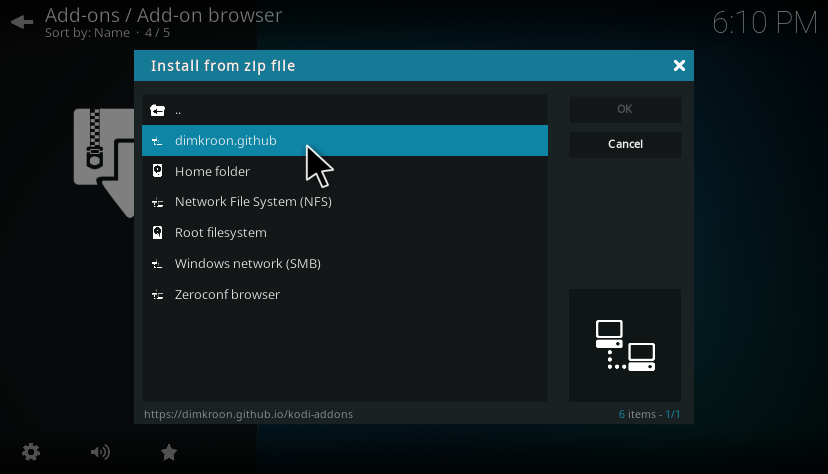
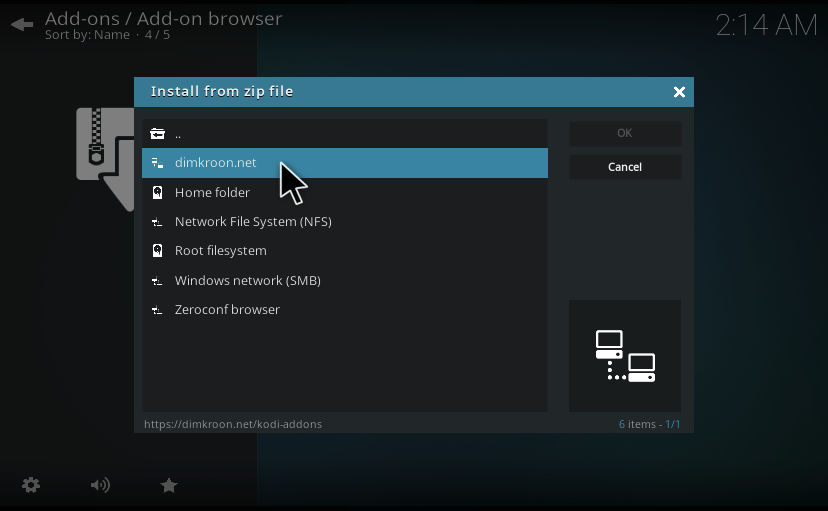
add dutch images and correct web url in images

diff --git a/nl/guides/howto-add-file-source.md b/nl/guides/howto-add-file-source.md
@@ -8,34 +8,38 @@ toevoegen als bestandslocatie in Kodi, zodat je de addons kunt installeren
 zonder ze eerst te hoeven downloaden.
 
 &nbsp;
-![img select settings](/assets/images/kodi-home-select-settings.png)
+![img select settings](/assets/images/nl/kodi-home-select-settings.png)
 
 Ga naar het Thuis scherm in Kodi en klik op Instellingen
 
 &nbsp;
-![img select filemanager](/assets/images/kodi-settings-select-filemanager.png)
+![img select filemanager](/assets/images/nl/kodi-settings-select-filemanager.
+png)
 In Instellingen, selecteer Bestandsbeheer
 
 &nbsp;
-![img select add source](/assets/images/kodi-filemanager-select-add-source.png)
+![img select add source](/assets/images/nl/kodi-filemanager-select-add-source.
+png)
 In Bestandsbeheer select 'Locatie toevoegen'. Gebruik je aan toetsenbord of 
 afstandsbediening, druk dan op Enter of OK. Als je een muis gebruikt dan moet 
 je dubbel klikken.
 
 &nbsp;
-![img enter source](/assets/images/kodi-dlg-add-file-source-enter-source.png)
+![img enter source](/assets/images/nl/kodi-dlg-add-file-source-enter-source.png)
 Je zou op 'Bladeren' kunnen klikken om de locatie op te zoeken, maar voor ons 
 is het veel makkelijker om direct de url in te voeren.
 Dus klik op het invoer veld waar nu '\<Geen>' staat.
 
 &nbsp;
-![img enter source location](/assets/images/kodi-enter-file-source-location.png)
+![img enter source location](/assets/images/nl/kodi-enter-file-source-location.
+png)
 Er wordt een on-screen toetsenbord getoond waar je het web adres kan invoeren.
 Voer in: '{{ site.url }}/kodi-addons'
 En klik op 'OK'
 
 &nbsp;
-![img select source name](/assets/images/kodi-dlg-add-file-src-select-name.png)
+![img select source name](/assets/images/nl/kodi-dlg-add-file-src-select-name.
+png)
 Je ziet nu het web adres in het invoerveld voor locaties.
 
 In het invoerveld beneden kan je de web locatie aan naam geven. Dit is de 
@@ -45,11 +49,11 @@ nemen.
 
 Kodi heeft de locatie al 'kodi-addons' genoemd, maar dat zegt weinig over 
 de herkomst. We kunnen het beter een nieuwe naam geven. Klik op het invoerveld 
-om het on-screen toetsenbord weer te geven en voer de naam 'dimkroon.github' 
+om het on-screen toetsenbord weer te geven en voer de naam 'dimkroon.net' 
 in. 
 
 &nbsp;
-![img dlg ok](/assets/images/kodi-dlg-add-file-src-select-ok.png)
+![img dlg ok](/assets/images/nl/kodi-dlg-add-file-src-select-ok.png)
 Het dialoogvenster moet er nu zo uit zien. Klik 'OK' om te bevestigen en de 
 locatie toe te voegen. Als alles goed gaat dan gaat Kodi nu terug naar 
 Bestandsbeheer. 
@@ -65,7 +69,7 @@ normale computer hetzelfde web adres ({{ site.url }}/kodi-addons) in een
 webbrowser in te voeren, gewoon om te zien of de website werkt.
 
 &nbsp;
-![img file mngr new src](/assets/images/kodi-filemanager-with-new-source.png)
+![img file mngr new src](/assets/images/nl/kodi-filemanager-with-new-source.png)
 De nieuwe locatie is nu zichtbaar in Bestandsbeheer.
 
 Je kan nogmaals controleren of het werkt door de locatie te selecteren 

diff --git a/nl/guides/install-from-zip.md b/nl/guides/install-from-zip.md
@@ -28,27 +28,28 @@ website zijn er grofweg twee methodes.
   [url als bestandslocatie toevoegen](/nl/guides/howto-add-file-source.html).
 
 &nbsp;
-![img select settings](/assets/images/kodi-home-select-settings.png)
+![img select settings](/assets/images/nl/kodi-home-select-settings.png)
 Begin de installatie door in het thuis scherm op instellingen te klikken.
 
 &nbsp;
-![img select settings](/assets/images/kodi-settings-select-addon.png)
+![img select settings](/assets/images/nl/kodi-settings-select-addon.png)
 In Instellingen, selecteer 'Add-ons' en de addon-verkenner zal openen.
 
 &nbsp;
-![img select settings](/assets/images/kodi-addonbrowser-select-install-zip.png)
+![img select settings](/assets/images/nl/kodi-addonbrowser-select-install-zip.
+png)
 In de Addon-verkenner selecteer 'Add-ons installeren via zipbestand'. Je zult 
 nu een dialog venster te zien krijgen waarin je gemeld wordt dat addons die op
 deze manier geïnstalleerd zijn niet automatisch worden bijgewerkt. Onthoudt 
 dat en klik op 'ja' om door te gaan.
 
 &nbsp;
-![img select settings](/assets/images/kodi-dlg-install-zip-select-github.png)
+![img select settings](/assets/images/nl/kodi-dlg-install-zip-select-github.png)
 Er opent nu een bestandsverkenner. Gebruik dit om het zip bestand te vinden 
 als je dat zojuist handmatig hebt gedownload.
 Als je de instructies hebt gevolgd op 
 [url als bestandslocatie toevoegen](/nl/guides/howto-add-file-source.html), 
-dan zul je de locatie genaamd dimkroon.github in de verkenner aantreffen. 
+dan zul je de locatie genaamd dimkroon.net in de verkenner aantreffen. 
 Selecteer dat om web folder te openen.
 
 Ga naar het zipbestand van de addon die je wilt installeren en klik erop, of 

diff --git a/guides/howto-add-file-source.md b/guides/howto-add-file-source.md
@@ -40,11 +40,11 @@ You will now see the web address in the paths field.
 In the input field below you can give the file source a name. This is the name 
 that will be shown in the file browser. You can give it any name you like, but
 it's best to give it a good descriptive name. Kodi has alread already named the
-resource 'kodi-addons', but that does tell us much about the location of 
+resource 'kodi-addons', but that does tell us much about the origin of 
 this web source.
 
 Better give a new name. Click on the entry field to show the on-screen 
-keyboard. Let's name it 'dimkroon.github'. 
+keyboard. Let's name it 'dimkroon.net'. 
 
 &nbsp;
 ![img dlg ok](/assets/images/kodi-dlg-add-file-src-select-ok.png)
@@ -61,7 +61,7 @@ computer, just to check if the website is up.
 
 &nbsp;
 ![img file mngr new src](/assets/images/kodi-filemanager-with-new-source.png)
-Now you will see the newly added source in file manager.
+With newly added source file manager should look like this.
 
 You can double-check if it works; select it and press OK/Enter (or 
 double-click with the mouse). You wil now see the contents of the web directory,

diff --git a/nl/guides/enable-unknown-sources.md b/nl/guides/enable-unknown-sources.md
@@ -12,7 +12,7 @@ De afbeeldingen zijn gemaakt van Kodi 19.4 met de standaard skin. Het kan er
 wat anders uitzien als je een andere skin gebruikt.
 &nbsp;
 
-![img select settings](/assets/images/kodi-home-select-settings.png)
+![img select settings](/assets/images/nl/kodi-home-select-settings.png)
 
 Klik op de knop instellingen in het Home scherm. Bij andere skins kan de 
 knop er anders uitzien of op een andere plek staan, maar je zou altijd vanuit 
@@ -20,13 +20,14 @@ het Home scherm naar instellingen moeten kunnen gaan.
 
 &nbsp;
 
-![img select system](/assets//images/kodi-settings-select-system.png)
+![img select system](/assets//images/nl/kodi-settings-select-system.png)
 
 Selecteer 'Systeem' in het scherm instellingen.
 
 &nbsp;
 
-![img enable unknown sources](/assets//images/kodi-system-enable-unknown-sources.png)
+![img enable unknown sources](/assets/images/nl/kodi-system-enable-unknown
+-sources.png)
 
 In Insetllinge/Systeem, selecteer 'Add-ons' in het linker menu zet 'Onbekende 
 bronnen' aan.

diff --git a/guides/install-from-zip.md b/guides/install-from-zip.md
@@ -44,7 +44,7 @@ automatically update. Keep that in mind and click 'Yes' to proceed.
 A file browser dialog will open. Use this to locate the zip file if you have 
 just downloaded it manually. If you have followed the instructions at 
 [how to add a file source](/guides/howto-add-file-source.html), you'll find 
-a source named dimkroon.github in the file browser. Select that to open the
+a source named dimkroon.net in the file browser. Select that to open the
 web directory.
 
 Navigate to the zip file you want to install and click, or press enter. The 
